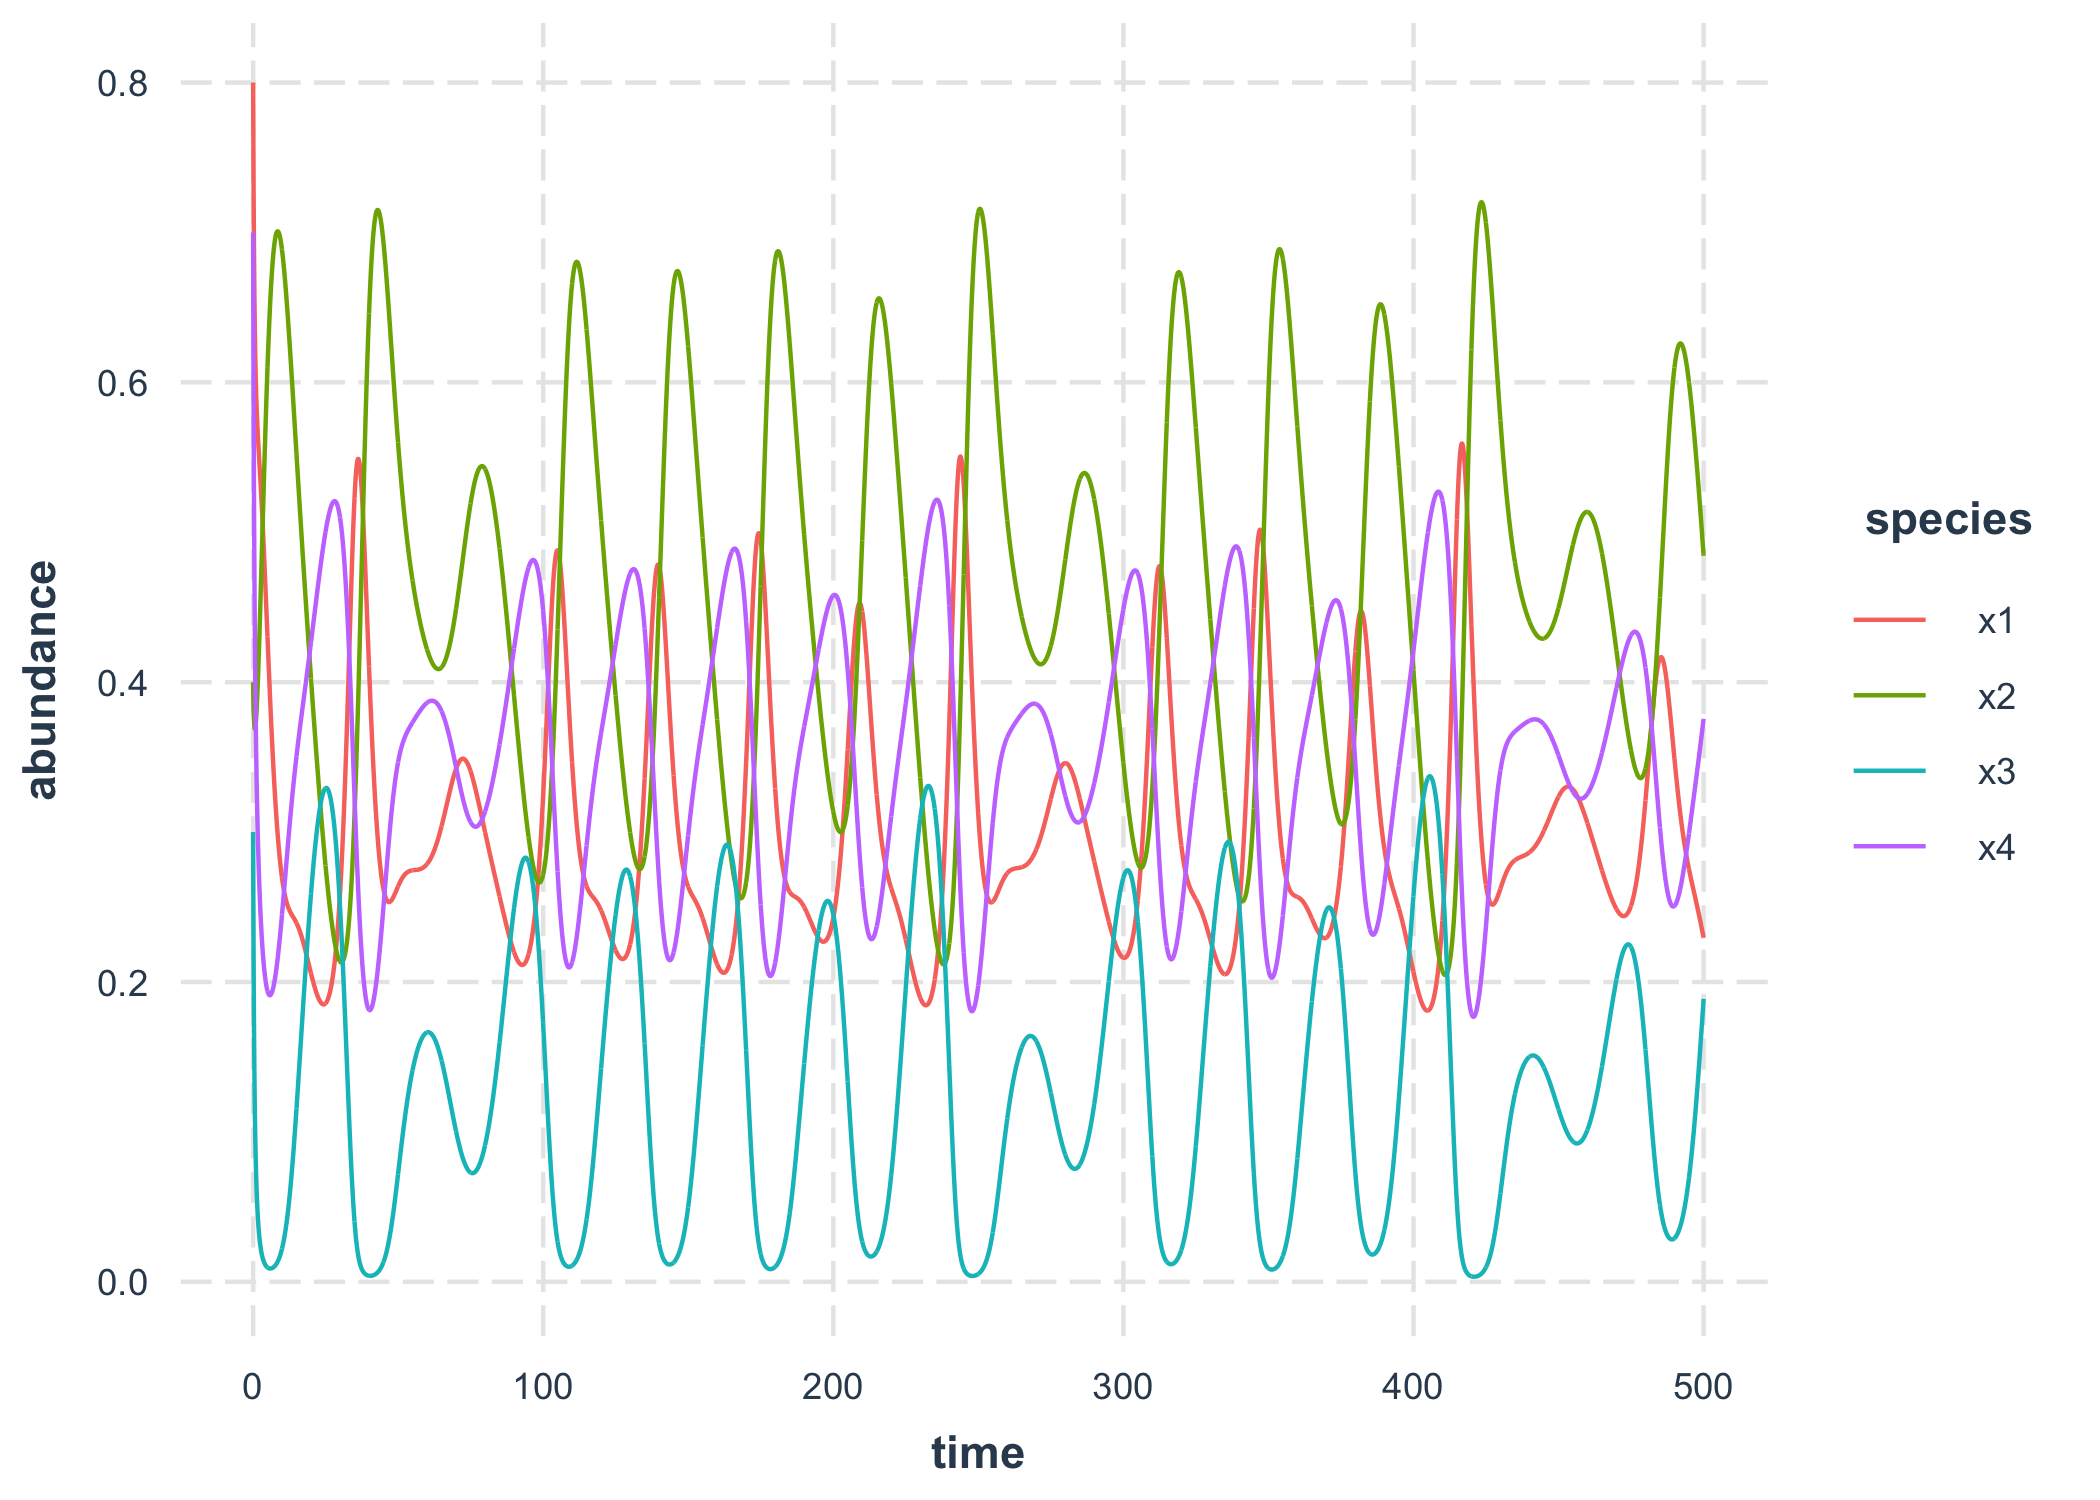
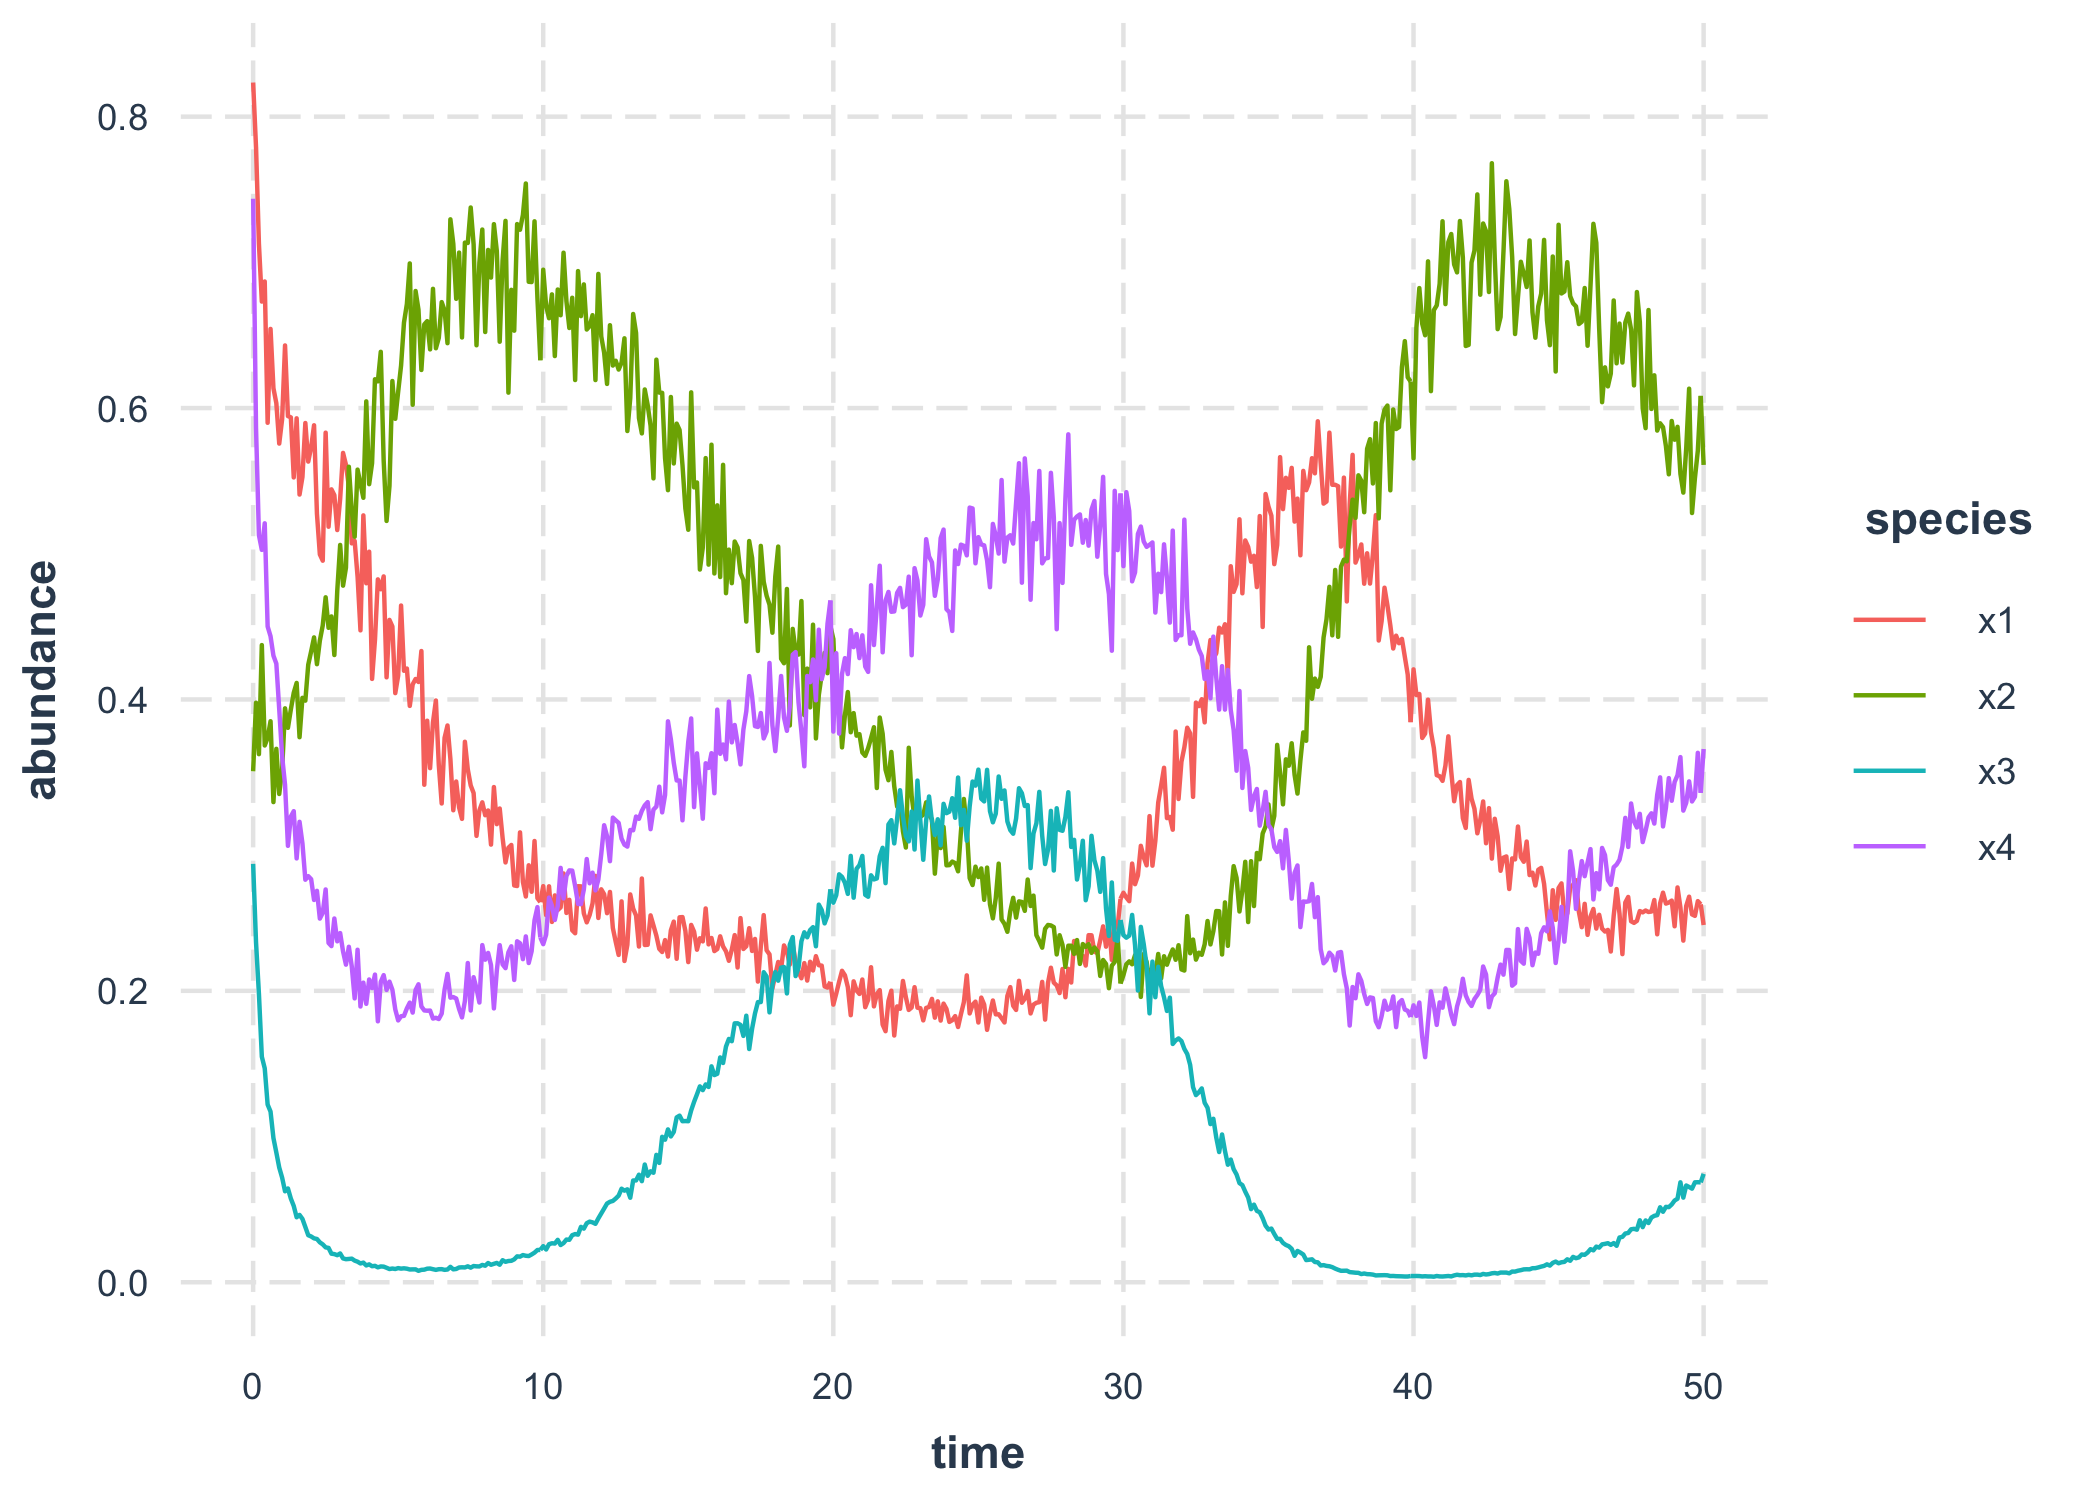
update readme

diff --git a/README.md b/README.md
@@ -25,20 +25,26 @@ devtools::install_github("clsong/InferInteractions")
 This is a basic example which shows you how to solve a common problem:
 
 ``` r
-suppressPackageStartupMessages(library(tidyverse))
+library(tidyverse)
 library(topodetective)
-#> Registered S3 method overwritten by 'tune':
-#>   method                   from   
-#>   required_pkgs.model_spec parsnip
 
 get_classic_dynamics("4_species_chaos") # choose a population dynamic
+time_range <- seq(0, 50, by = .1)
 
-ts <- generate_time_series(eqns_per, time_range, state_initial, species_num) # simulate a dynamic
+set.seed(12345)
+ts <- generate_time_series_LV(
+  topology = topology_ground,
+  state_initial = state_initial,
+  time_range = time_range,
+  noise = T,
+  noise_level = .05
+) # simulate a dynamic
 
-# plot_time_series(ts)
+plot_time_series(ts)
 ```
 
-We then infer system parameters from time series alone. We choose all
+<img src="man/figures/README-unnamed-chunk-2-1.png" width="100%" /> We
+then infer system parameters from time series alone. We choose all
 possible topologies.
 
 ``` r
@@ -58,14 +64,25 @@ the fit.
 ``` r
 set.seed(123)
 topology_fitted <- fitted_models %>%
-  filter(R2 > .9) %>%
   group_by(species) %>%
+  top_n(3, R2) %>% 
   sample_n(1) %>%
   ungroup()
 
 ts_simu <- simualte_fitted_dynamics(topology_fitted)
 evaluate_fit(ts, ts_simu)
-#> [1] 0.01749783
+#> Warning in sim - obs: longer object length is not a multiple of shorter object
+#> length
+
+#> Warning in sim - obs: longer object length is not a multiple of shorter object
+#> length
+
+#> Warning in sim - obs: longer object length is not a multiple of shorter object
+#> length
+
+#> Warning in sim - obs: longer object length is not a multiple of shorter object
+#> length
+#> [1] 0.01567233
 
 plot_true_vs_simu(ts, ts_simu)
 ```
